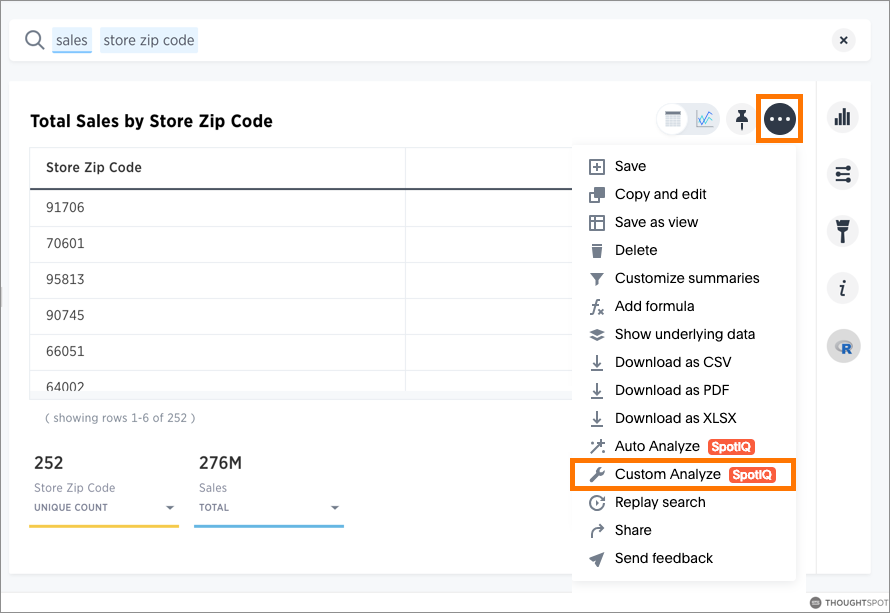
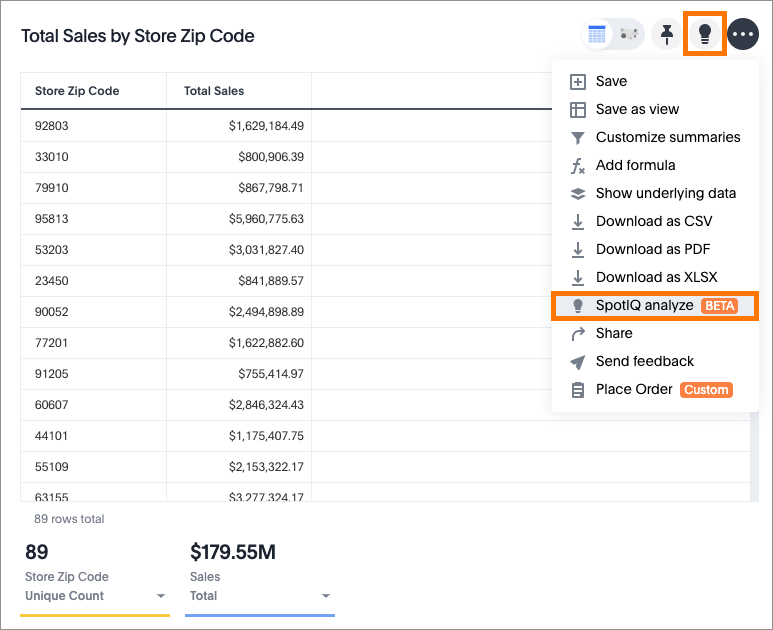
Updating SpotIQ content to match 5.2 changes

diff --git a/_spotiq/customization.md b/_spotiq/customization.md
@@ -6,31 +6,30 @@ last_updated: tbd
 sidebar: mydoc_sidebar
 permalink: /:collection/:path.html
 ---
-Everywhere in ThoughtSpot where you can **Auto Analyze** with ThoughtSpot, you
-can also configure a customized SpotIQ analysis. The customized analysis can be
+Everywhere in ThoughtSpot where you can run **SpotIQ analyze** , you
+can configure a customized SpotIQ analysis. The customized analysis can be
 a one-time customization or can apply to all future analysis of that particular
 data source.
 
 ## Finding customization controls
 
-Every menu or location where you can **Auto Analyze** with ThoughtSpot, you
-can also choose **Custom Analyze**. It looks like this:
+Every menu or location where you can run **SpotIQ analyze**, you
+can customize your analysis. You access it using the lightbulb button ![more options menu icon]({{ site.baseurl }}/images/icon-lightbulb.png){: .inline} or the ellipses menu ![SpotIQ analyze icon]({{ site.baseurl }}/images/icon-ellipses.png){: .inline}.
 
 ![]({{ site.baseurl }}/images/spotiq-where-customize.png)
 
-Regardless of where you are in the ThoughtSpot UI, the SpotIQ **Customize
-Analysis** dialog has the same layout. The columns, of course, are specific to
+Regardless of where you are in the ThoughtSpot UI, the SpotIQ **SpotIQ
+analysis** window has the same layout. The columns, of course, are specific to
 the data you launched the dialog from.
 
 ![]({{ site.baseurl }}/images/spotiq-customize-analysis-include.png)
 
 
-This dialog has three tabs:
-* **Included columns**, where you can explicitly indicate which columns to include in a SpotIQ analysis. (You can select all, some, or none.)
-* **Excluded columns**, where you can explicitly indicate which columns to exclude in an SpotIQ analysis. (You can select all, some, or none.)
-* **Customize Algorithms**, where you can run custom analyses and incorporate R scripts into SpotIQ.
+This dialog has two tabs:
+* **Columns**, where you can explicitly indicate which columns to include in a SpotIQ analysis. (You can select all, some, or none.)
+* **Advanced**, where you can run custom analyses and incorporate R scripts into SpotIQ.
 
-The **Customize Algorithms** is by far the most advanced panel. (The panel scrolls, so more algorithms are available than are shown in the picture below.)
+The **Advanced** tab is by far the most advanced panel. (The panel scrolls, so more algorithms are available than are shown in the picture below.)
 
  ![]({{ site.baseurl }}/images/spotiq-customize-algorithms.png)
 
